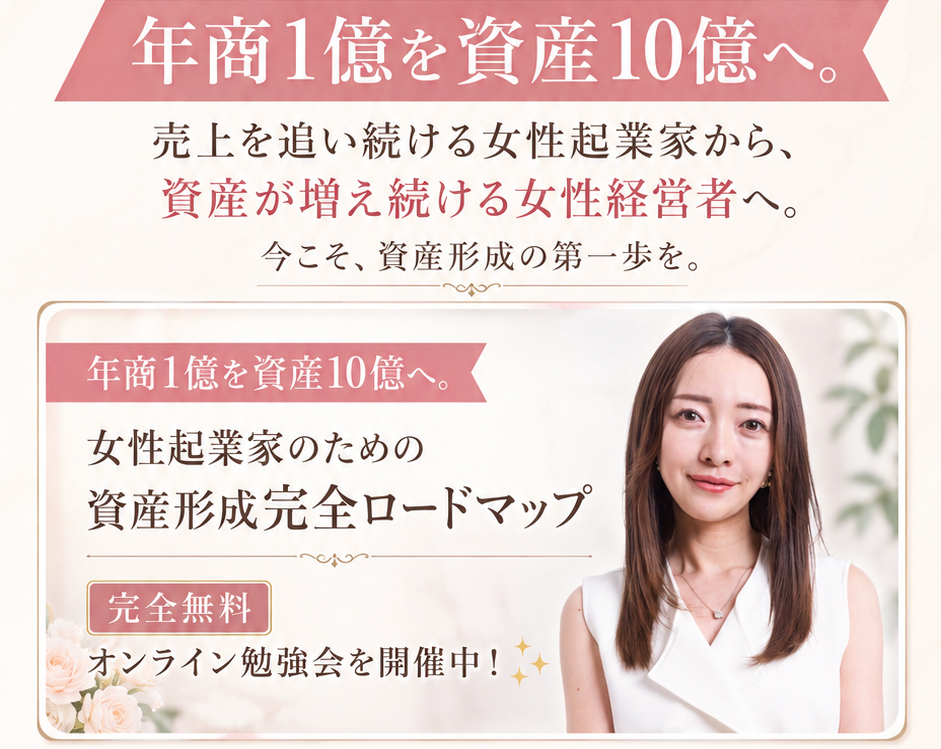
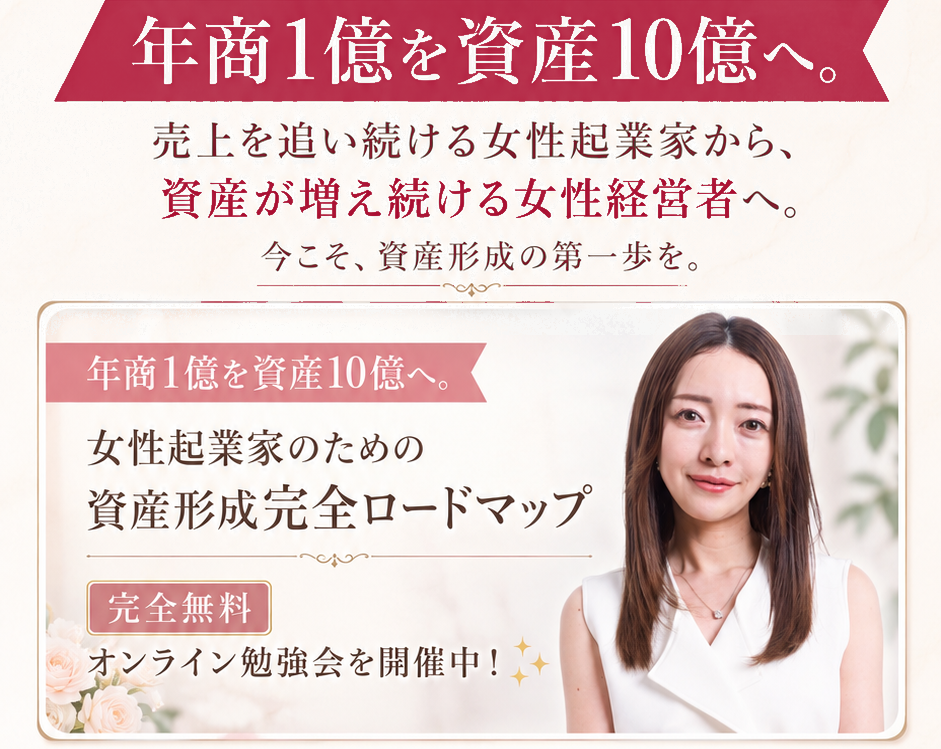
5点修正: 特典CTA余白詰め/最下部ボタン拡大/プロフィール枠を薄く/年商1億バンドをFV配色に/フッター深紅化

diff --git a/index.html b/index.html
@@ -115,7 +115,7 @@ a{text-decoration:none;color:inherit;}
     radial-gradient(circle at 8% 70%,rgba(255,255,255,.4) 0 4px,transparent 5px),
     radial-gradient(circle at 92% 84%,rgba(255,255,255,.4) 0 6px,transparent 7px),
     linear-gradient(180deg,#F7E9E3 0%,#FCF5EE 40%,#F6E7E0 100%);
-  padding:32px 0 40px;
+  padding:32px 0 22px;
 }
 .tokuten-head-img{
   display:block;width:min(94%,648px);height:auto;
@@ -845,7 +845,7 @@ a{text-decoration:none;color:inherit;}
 /* ============================================================
    11. フッター
 ============================================================ */
-footer{background:#e57b93;color:#fff;text-align:center;padding:26px 4% 30px;}
+footer{background:linear-gradient(180deg,#B01E42,#9C1236);color:#fff;text-align:center;padding:26px 4% 30px;}
 footer .f-links{display:flex;flex-wrap:wrap;justify-content:center;gap:6px 22px;font-size:13px;font-weight:500;}
 footer .f-links a{text-decoration:underline;text-underline-offset:3px;}
 footer .f-copy{margin-top:14px;font-size:12px;opacity:.95;}
@@ -911,7 +911,7 @@ footer .f-copy{margin-top:14px;font-size:12px;opacity:.95;}
       <div class="pr-item"><img src="images/line-present-20.png?v=2" alt="売上を追う人生から卒業！働かなくてもお金が増える仕組みの作り方" loading="lazy"></div>
     </div>
 
-    <div class="cta-wrap" style="margin-top:36px;">
+    <div class="cta-wrap" style="margin-top:2px;">
       <a class="cta-link" href="https://line.me/R/ti/p/@623nffxx"><img class="cta-img" src="images/cta-btn-trim.png?v=1" alt="お金が増え続けていく仕組みを作りませんか？資産形成ロードマップをプレゼント。今すぐ無料で受け取る" width="1846" height="809"></a>
     </div>
   </section>
@@ -943,17 +943,17 @@ footer .f-copy{margin-top:14px;font-size:12px;opacity:.95;}
   <section class="kanshu">
     <img class="profile-img" src="images/profile-head.png?v=1" alt="年商1億を資産10億へ。3児のママ経営者が実践する女性起業家の資産形成術。" width="1012" height="278">
     <img class="profile-img" src="images/kanshu-band.png?v=2" alt="事業と資産形成の両立を実現した 女性起業家 松田リエ監修。年商10億・資産20億超、40室以上の不動産を保有し、M&Aも経験した3児のママ経営者が監修。事業の利益を不動産や資産へ変え、自分が働かなくてもお金が増えていく仕組みを構築。「どう資産を作るか」を、リアルな経験に基づいて体系化した資産形成の無料講座です。" width="1122" height="1402">
-    <img class="profile-img" src="images/rie-profile.png?v=2" alt="松田リエ Rie Matsuda。3児のママ経営者でありながら年商10億・資産20億超を実現／40室以上の不動産を保有し事業利益を資産へ変える仕組みを構築／M&Aも経験しお金を増やす経営を実践／累計受講生4,500名以上／YouTube登録者22万人・総フォロワー70万人超・テレビ出演16回以上／出版17冊・累計43万部突破" width="962" height="1725">
+    <img class="profile-img" src="images/rie-profile.png?v=3" alt="松田リエ Rie Matsuda。3児のママ経営者でありながら年商10億・資産20億超を実現／40室以上の不動産を保有し事業利益を資産へ変える仕組みを構築／M&Aも経験しお金を増やす経営を実践／累計受講生4,500名以上／YouTube登録者22万人・総フォロワー70万人超・テレビ出演16回以上／出版17冊・累計43万部突破" width="962" height="1725">
     <img class="profile-img" src="images/jisseki.png?v=6" alt="実績画像・メディア掲載多数。テレビ出演写真／週刊女性・THE TIME,・美的.com・Yahoo!ニュース・小学館・女子SPA!・毎日新聞・朝日新聞・産経新聞・読売新聞・中日新聞・壮快ほか雑誌掲載多数。累計受講生4,500名以上／YouTube総登録者22万人以上／総フォロワー70万人突破／累計43万部突破／テレビ出演16回以上" width="724" height="1369">
   </section>
 
   <!-- ============ 9-10. ビジョン〜ラスト（画像） ============ -->
   <section class="last">
     <img class="vision-img" src="images/vision-head.png?v=1" alt="「売上を作る力」だけでなく、「資産を作る力」も身につけてほしい。女性起業家が家族との時間も、お金の安心も、どちらも手に入れられる社会をつくりたい。そのために誕生した講座です" width="1086" height="1449">
-    <img class="vision-img" src="images/vision-main.png?v=2" alt="年商1億を資産10億へ。売上を追い続ける女性起業家から、資産が増え続ける女性経営者へ。今こそ、資産形成の第一歩を。女性起業家のための資産形成完全ロードマップ 完全無料 オンライン勉強会を開催中！" width="941" height="749">
+    <img class="vision-img" src="images/vision-main.png?v=3" alt="年商1億を資産10億へ。売上を追い続ける女性起業家から、資産が増え続ける女性経営者へ。今こそ、資産形成の第一歩を。女性起業家のための資産形成完全ロードマップ 完全無料 オンライン勉強会を開催中！" width="941" height="749">
     <div class="last-video" style="position:relative;">
       <img class="vision-img" src="images/last-video.png?v=1" alt="動画講座全3回(100分以上)プレゼント！ビジネスで稼ぐ力だけでなく、資産を作る力、守る力を身につけませんか？" width="1523" height="1033">
-      <a class="cta-link" href="https://line.me/R/ti/p/@623nffxx" style="position:absolute;left:7.62%;top:46.85%;width:84.04%;display:block;">
+      <a class="cta-link" href="https://line.me/R/ti/p/@623nffxx" style="position:absolute;left:3.77%;top:44.9%;width:92.46%;display:block;">
         <img class="cta-img" src="images/last-video-btn.png?v=1" alt="最大で豪華30大特典プレゼント中 今すぐ無料で受け取る" width="1280" height="404">
       </a>
     </div>
